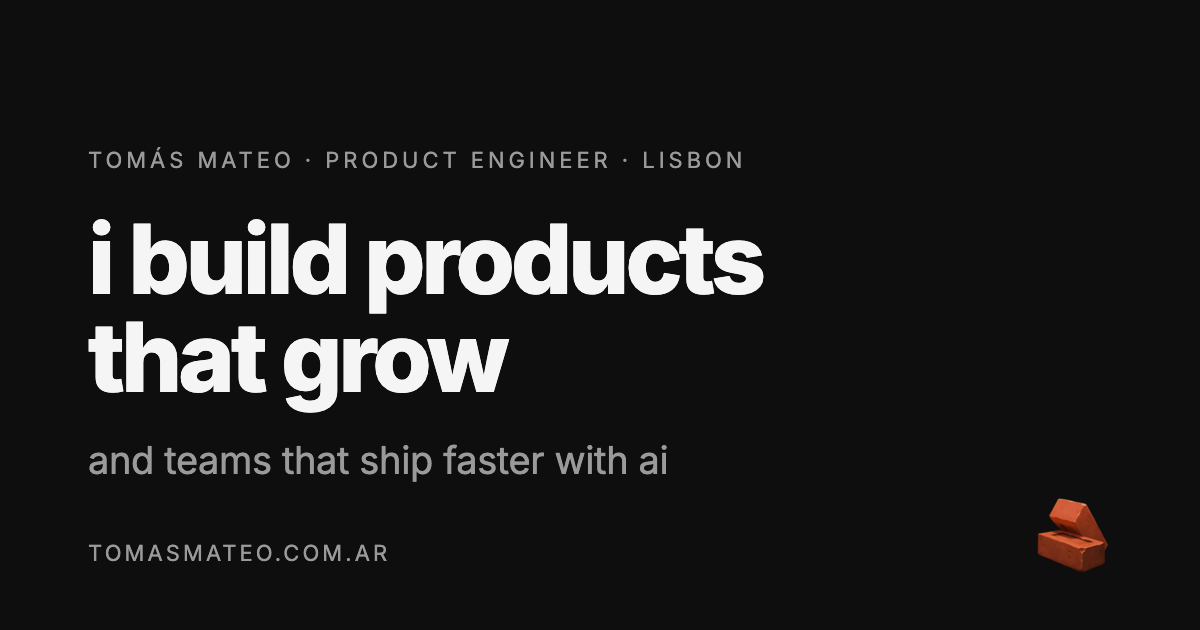
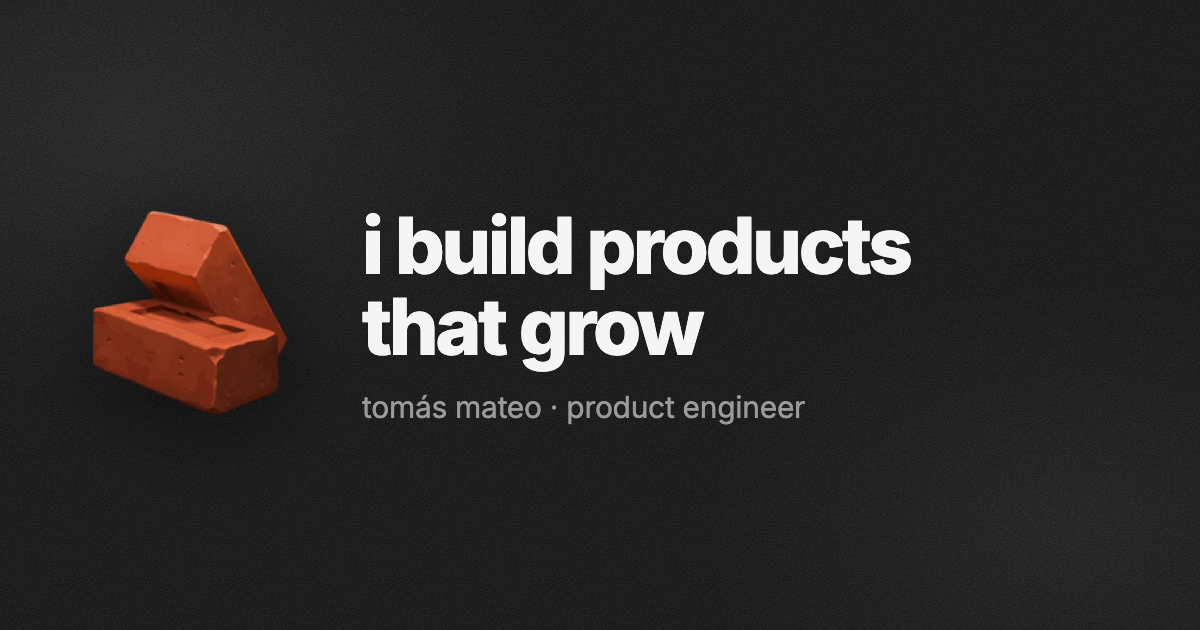
Give the link preview the brick
The old card was a text-only restatement of the title, which the platform
already shows underneath it. This one leads with the brick from the
favicon, so the tab icon and a shared link carry the same mark, and pairs
it with the hook and the name.

Carries the page's own radial haze and grain rather than sitting on a flat
rectangle. That texture defeats PNG compression, so the export is
quantised to 256 colours: 767KB down to 234KB with no visible banding,
kept at the same path and size so every existing meta tag stays valid.

diff --git a/index.html b/index.html
@@ -32,7 +32,7 @@
       <meta property="og:image:height" content="630" />
       <meta
          property="og:image:alt"
-         content="Tomás Mateo, product engineer: i build products that grow, and teams that ship faster with ai"
+         content="A brick beside the words: i build products that grow. Tomás Mateo, product engineer."
       />
       <meta property="og:locale" content="en_US" />
 
